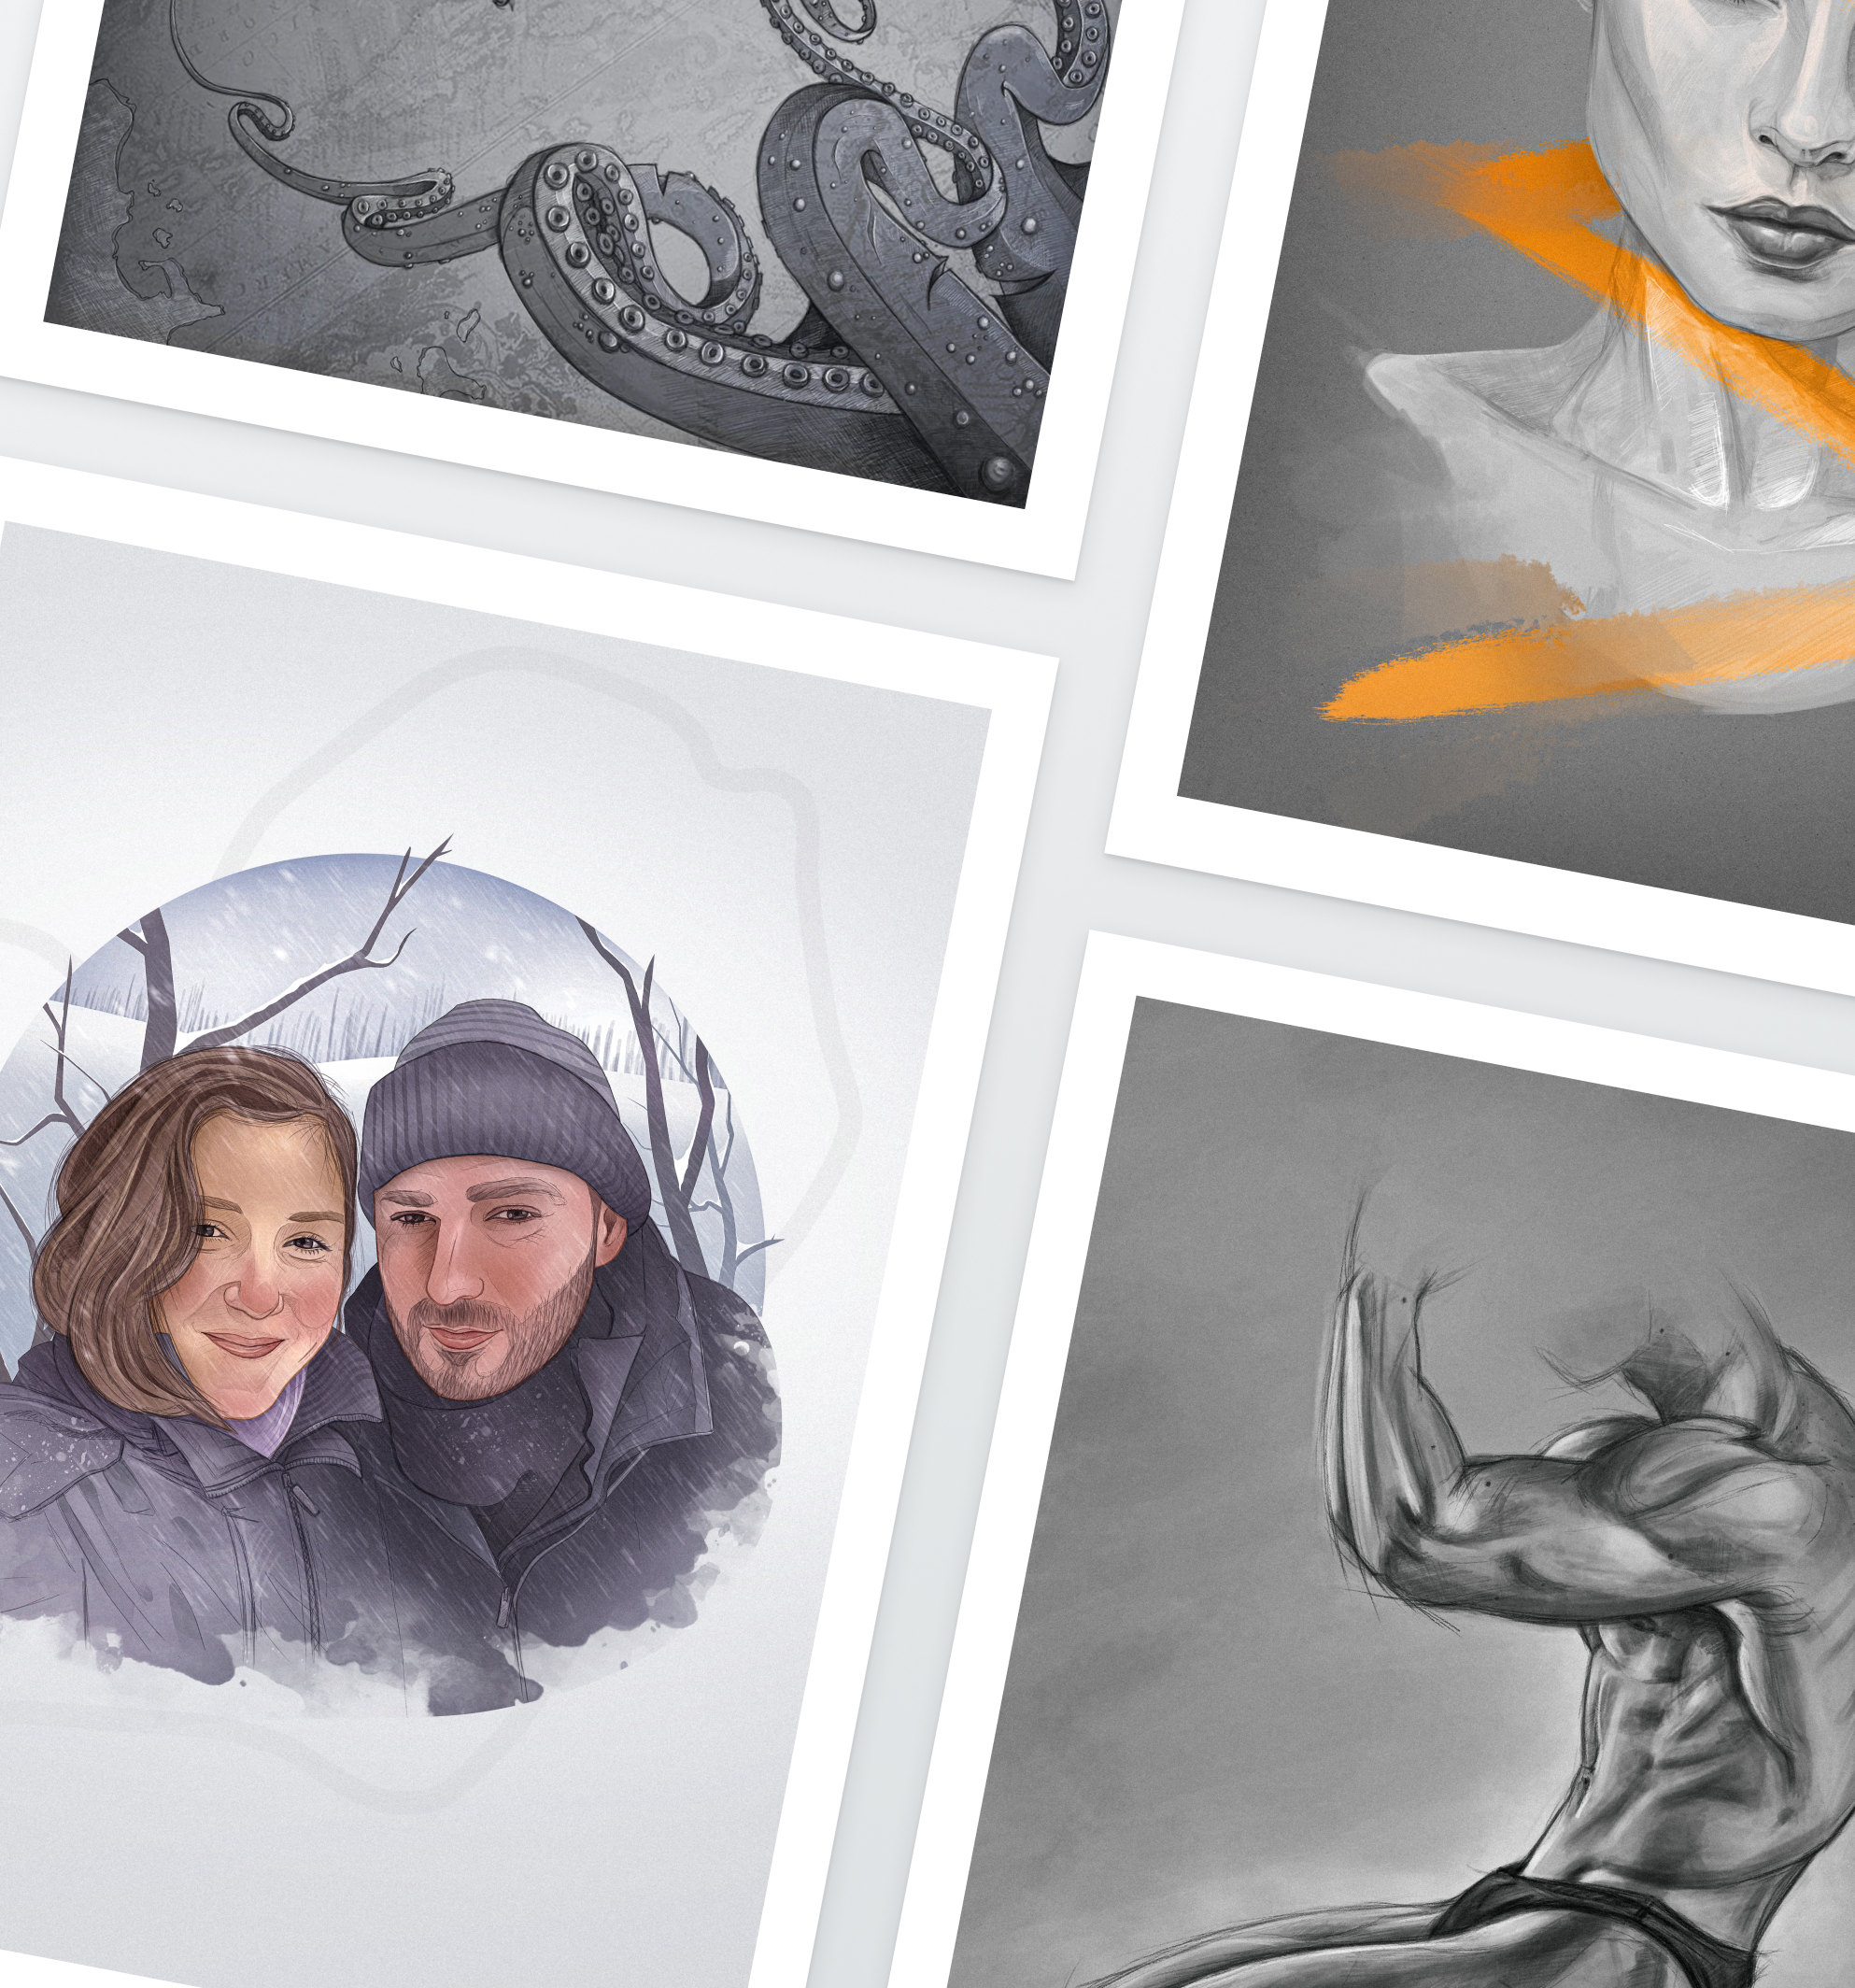
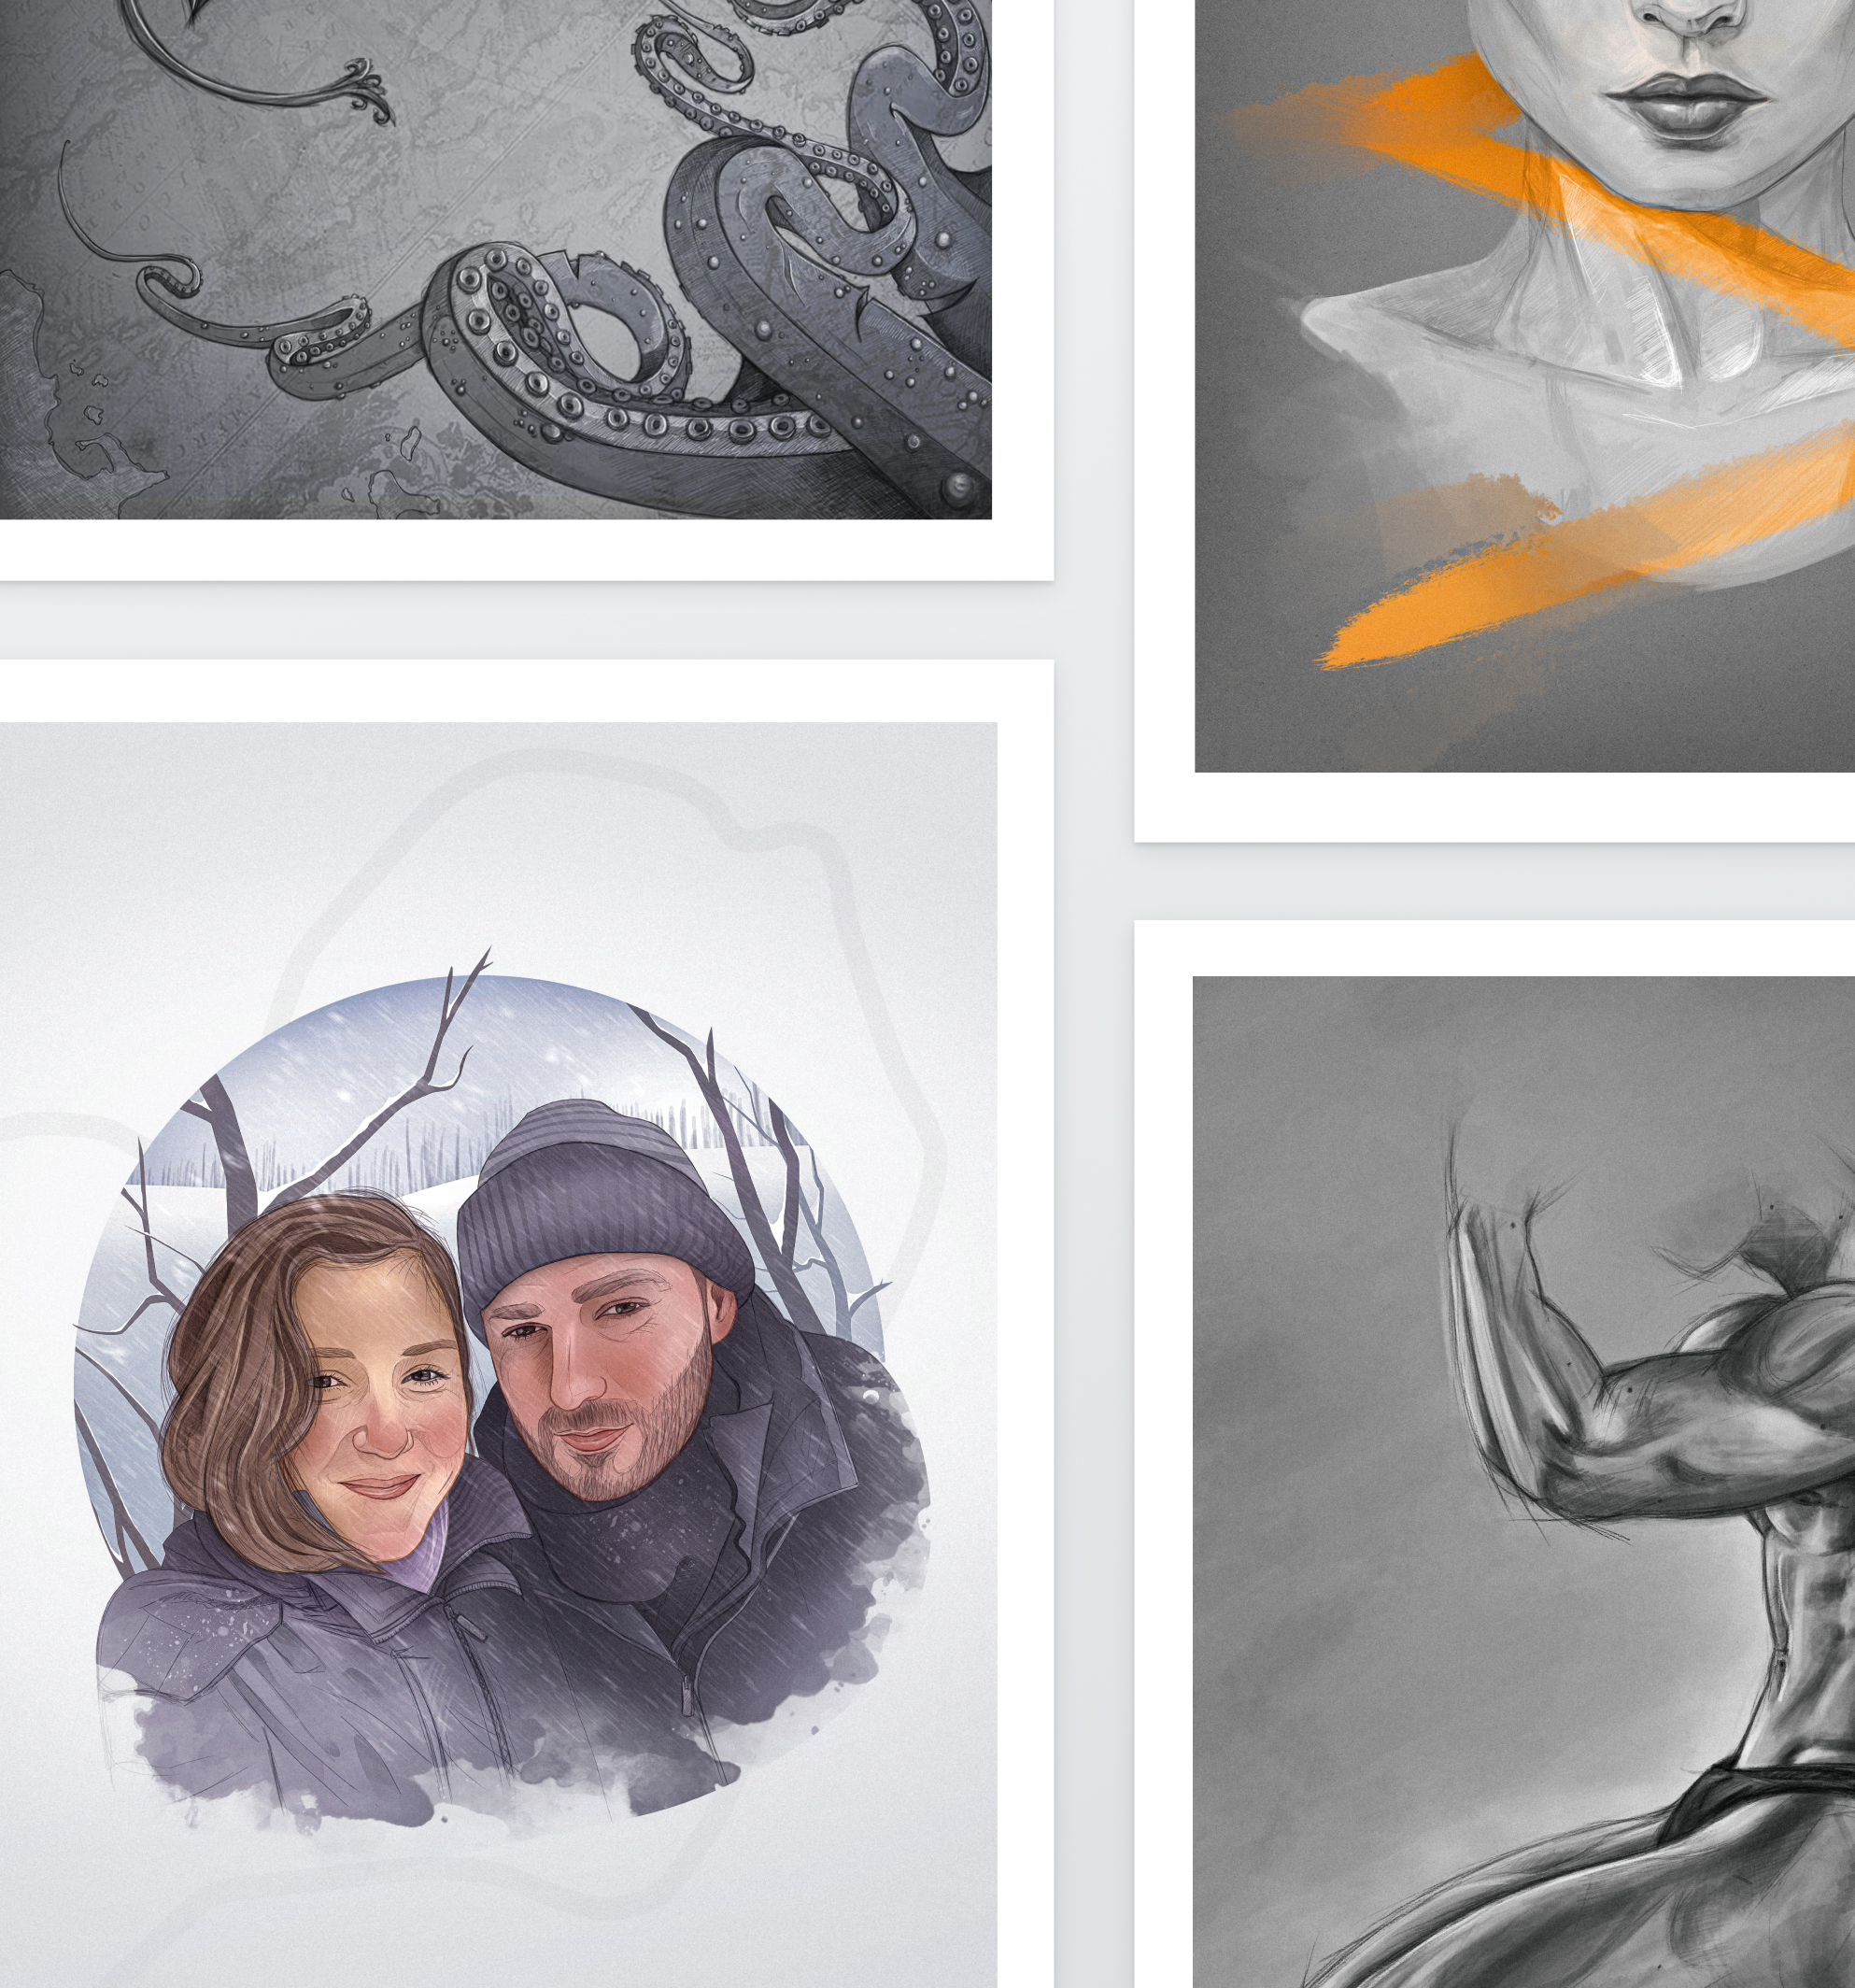
More layout adjustment

diff --git a/app/(projects)/artifacts/page.tsx b/app/(projects)/artifacts/page.tsx
@@ -49,7 +49,6 @@ export default function ArtifactsPage() {
           <ArtifactGridItem image={sketchbookFemaleStudyImage} />
           <ArtifactGridItem image={sketchbookTattooImage} />
           <ArtifactGridItem image={sketchbookHeadspaceImage} />
-
           <ArtifactGridItem image={sketchbookMapImage} />
           <ArtifactGridItem image={sketchbookSnowmanImage} />
         </ArtifactGrid>
@@ -81,7 +80,7 @@ const ArtifactGrid = React.forwardRef<ArtifactGridElement, ArtifactGridProps>(
           'lg:[--gap:40px]',
           'xl:[--gap:50px]',
           'widest:[--gap:70px]',
-          'z-10 relative bg-slate-12 p-[calc(var(--gap))] overflow-hidden',
+          'z-10 relative bg-slate-12 p-4 md:p-12 lg:p-16 2xl:p-[6vw] overflow-hidden',
           props.className,
         )}
         ref={forwardedRef}